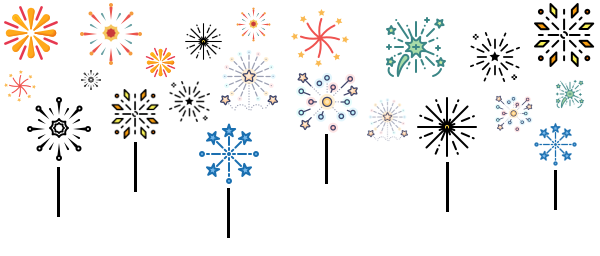
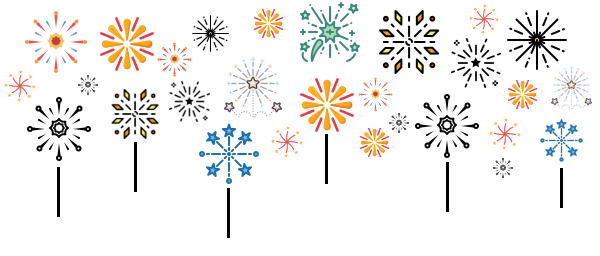
花边全部置红

diff --git a/hanhan/greeting_card/index.html b/hanhan/greeting_card/index.html
@@ -39,7 +39,7 @@
                 <img src="../cover.webp" alt="">
             </div>
             <div class="content">
-                <img class="firework-area" src="../firework-top.png">
+                <img class="firework-area" src="../firework-top--all-red.png">
 
                 <div class="text-container">
                     <div class="text-center">

diff --git a/hanhan/烟花花边-置色.py b/hanhan/烟花花边-置色.py
@@ -1,0 +1,19 @@
+from PIL import Image
+import numpy as np
+
+
+im = Image.open('./hanhan/firework-top.png')
+arr = np.array(im)
+
+red_color = (255, 79, 75,255)
+
+for i in range(arr.shape[0]):
+    for j in range(arr.shape[1]):
+        r,g,b,a = arr[i,j]
+        if a!=0:
+            arr[i,j]=red_color
+
+
+im = Image.fromarray(arr)
+# im.show()
+im.save('./hanhan/firework-top--all-red.png')
